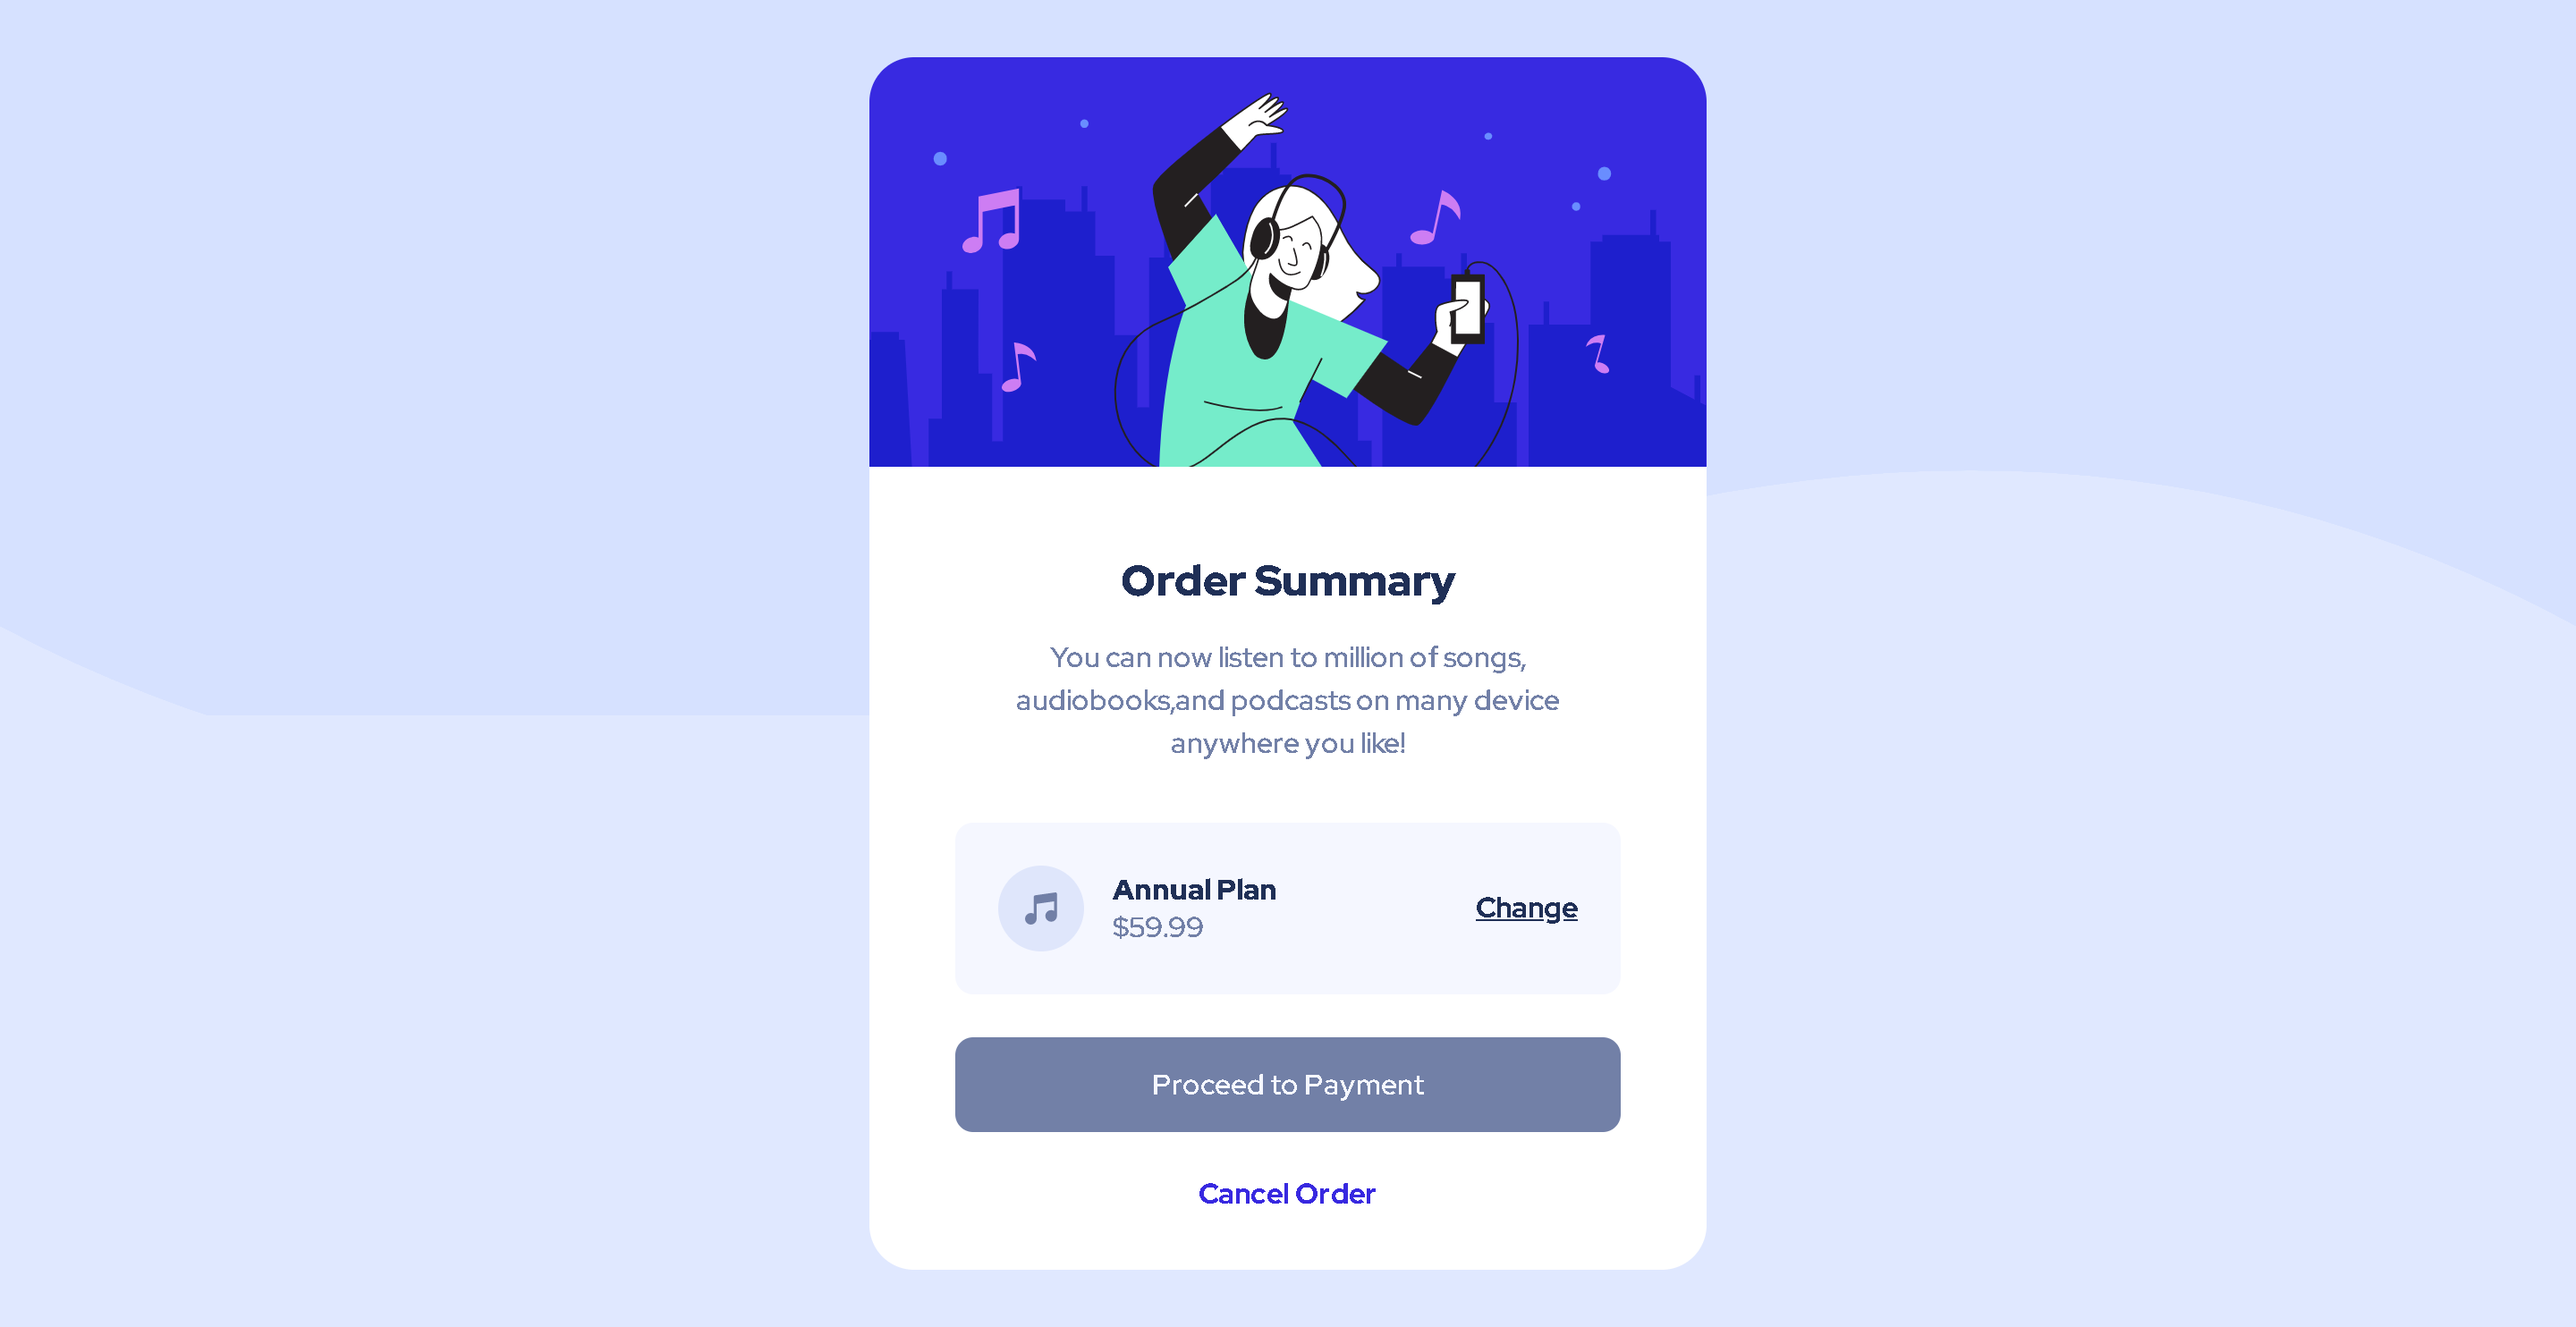
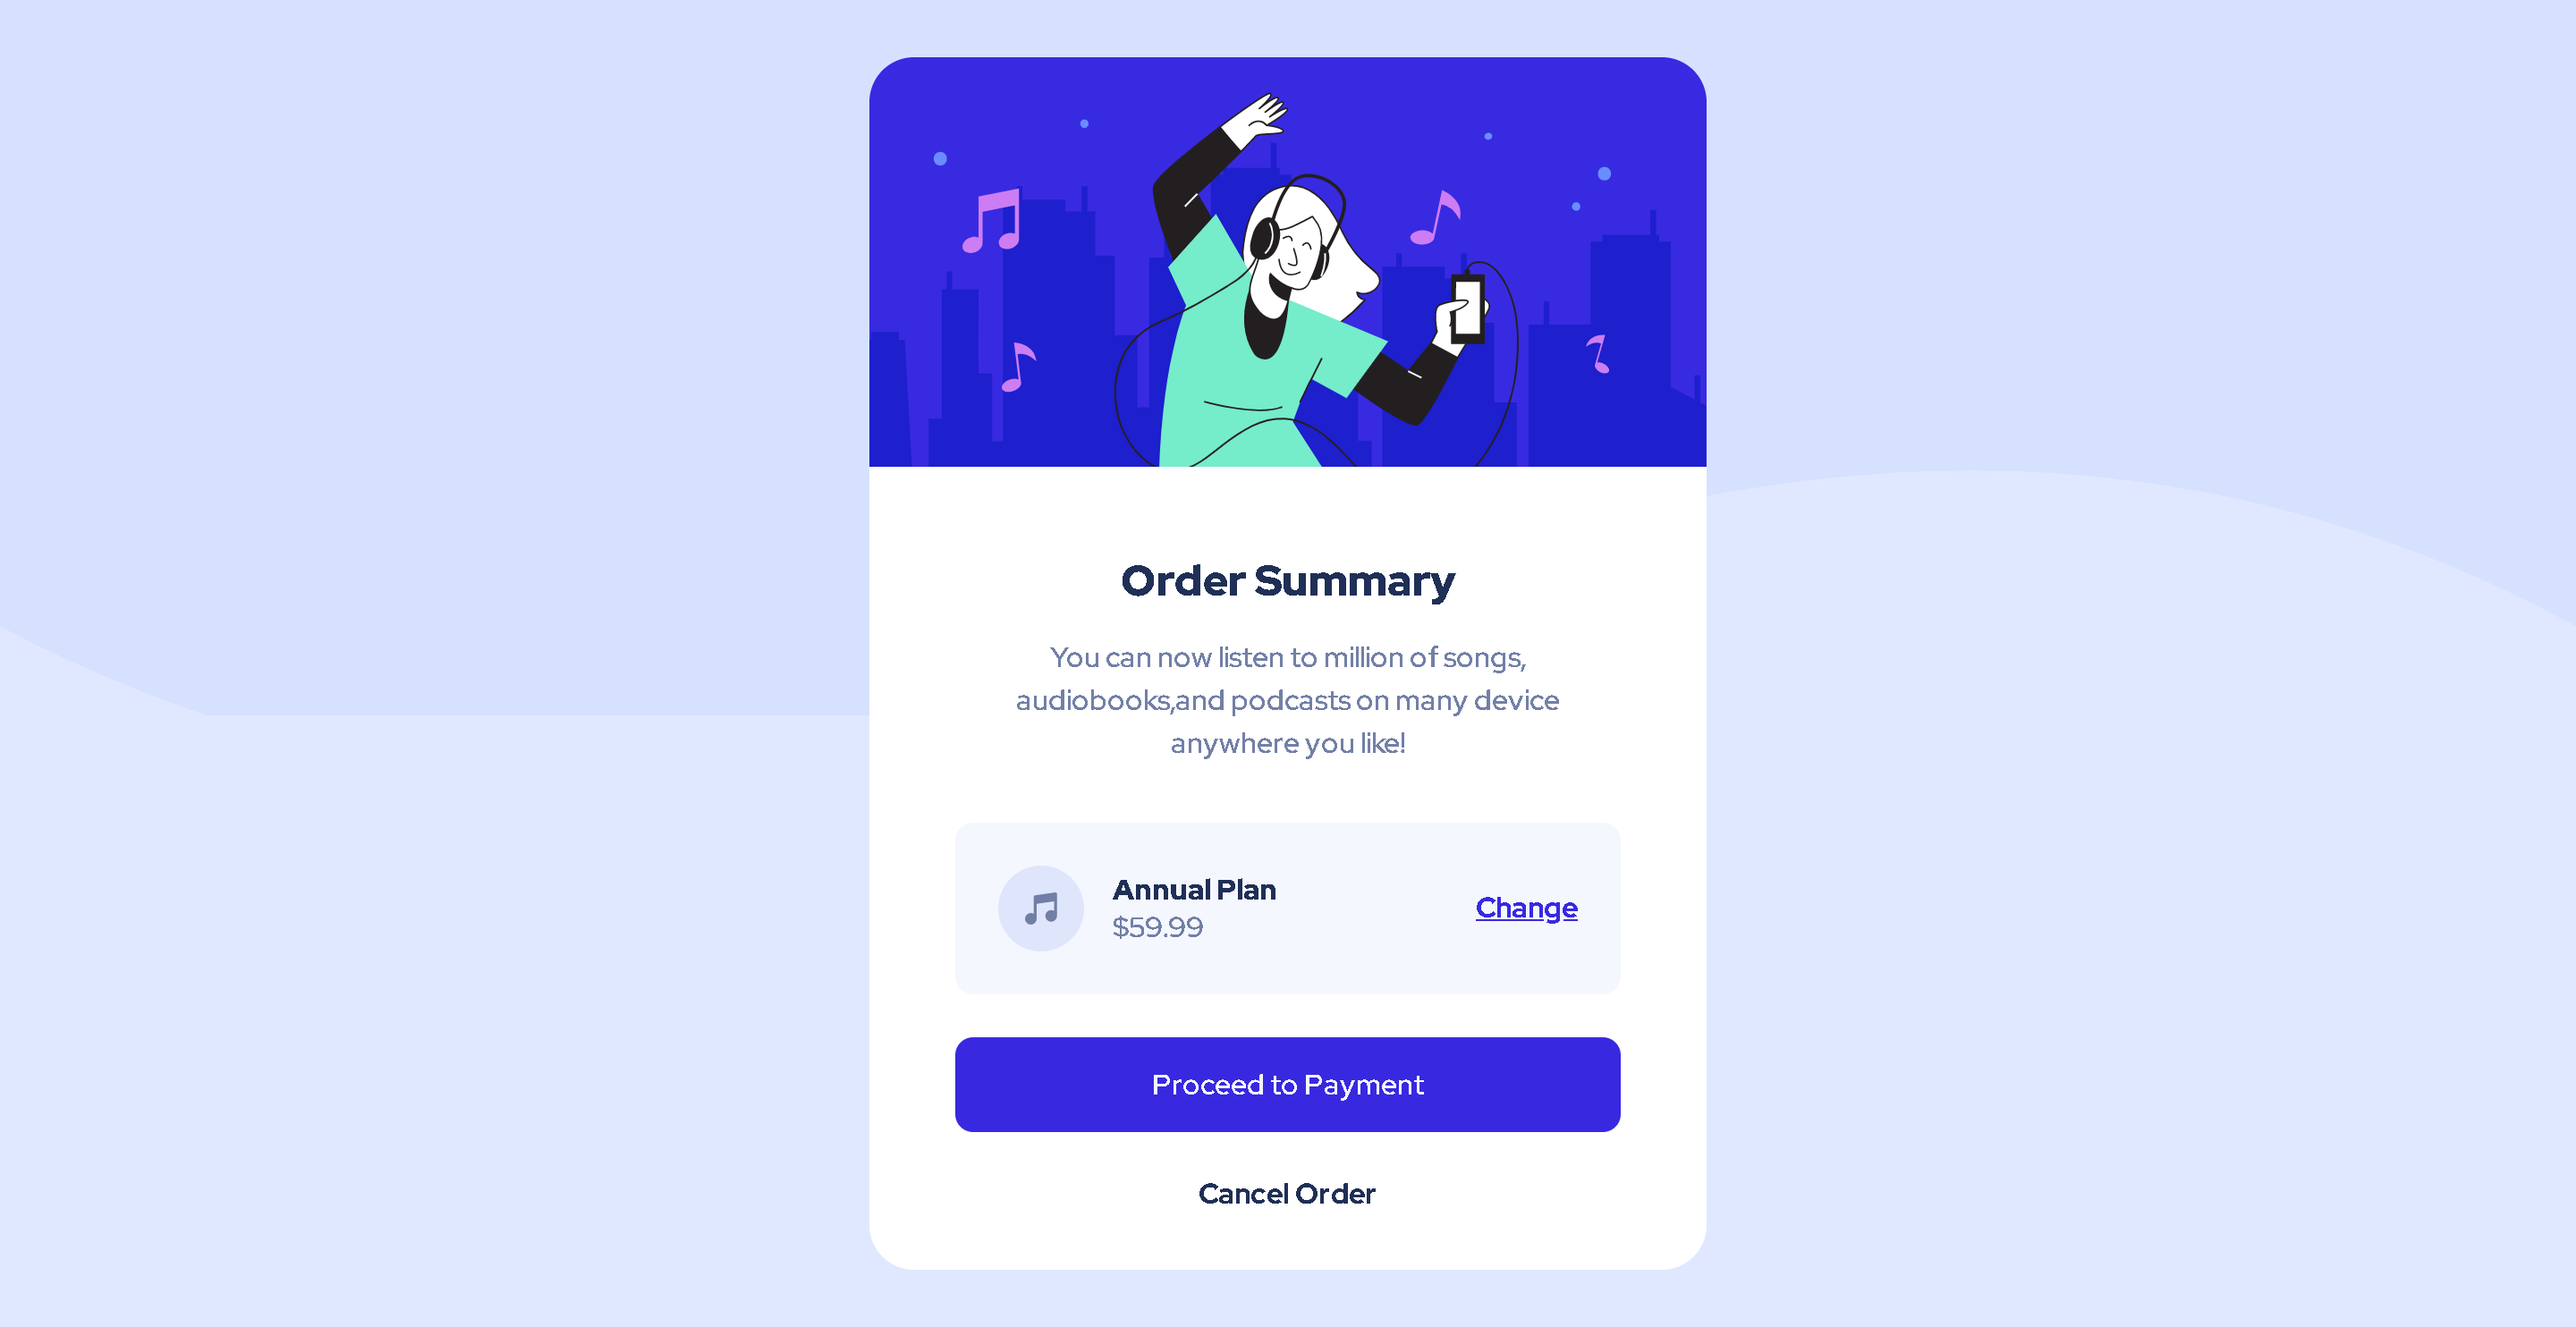
readme image changed

Changed region(s): [[0.3438, 0.7749, 0.6562, 0.8679], [0.5625, 0.6819, 0.625, 0.7129], [0.4688, 0.8989, 0.5312, 0.9299]]

diff --git a/scss/order-summary.scss b/scss/order-summary.scss
@@ -181,7 +181,7 @@ main {
    transition: color .3s ease;
 
    &:hover{
-     color:$desaturated-blue
+     color: $desaturated-blue;
    }
  }
 }
